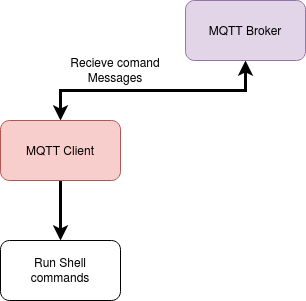
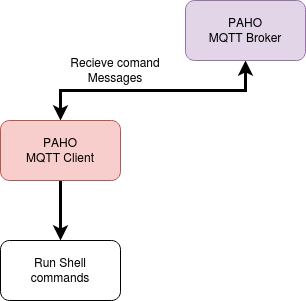
changed the architecture image

Changed region(s): [[0.6765, 0.0598, 0.9412, 0.1495], [0.0882, 0.4485, 0.3235, 0.5382]]

diff --git a/assignment_2.2/problem1.md b/assignment_2.2/problem1.md
@@ -41,6 +41,9 @@ and configures Wifi and Ethernet when commands are received on these MQTT topics
     - Wifi configuration using wpa_supplicant - https://www.raspberrypi.org/documentation/configuration/wireless/wireless-cli.md
     - Ethernet configuration - https://raspberrypi.stackexchange.com/a/74428
 
+- MQTT Client Publishes back to the same topic the Success or the Error of the 
+  wifi or ethernet configuration.
+
 
 ### For Example: 
 

diff --git a/assignment_2.2/problem2.md b/assignment_2.2/problem2.md
@@ -42,6 +42,9 @@ Write an Program that Subscribes to one topic "config/ble" and when commands are
     - Access GATT services from BLE, use your own script that you have written 
     in assignment 2.1 Problem 2.
 
+- MQTT Client Publishes back to the same topic the Success or the Error of the 
+shell commands run for bluetooth.
+
 ### For Example: 
 
 Lets say 
